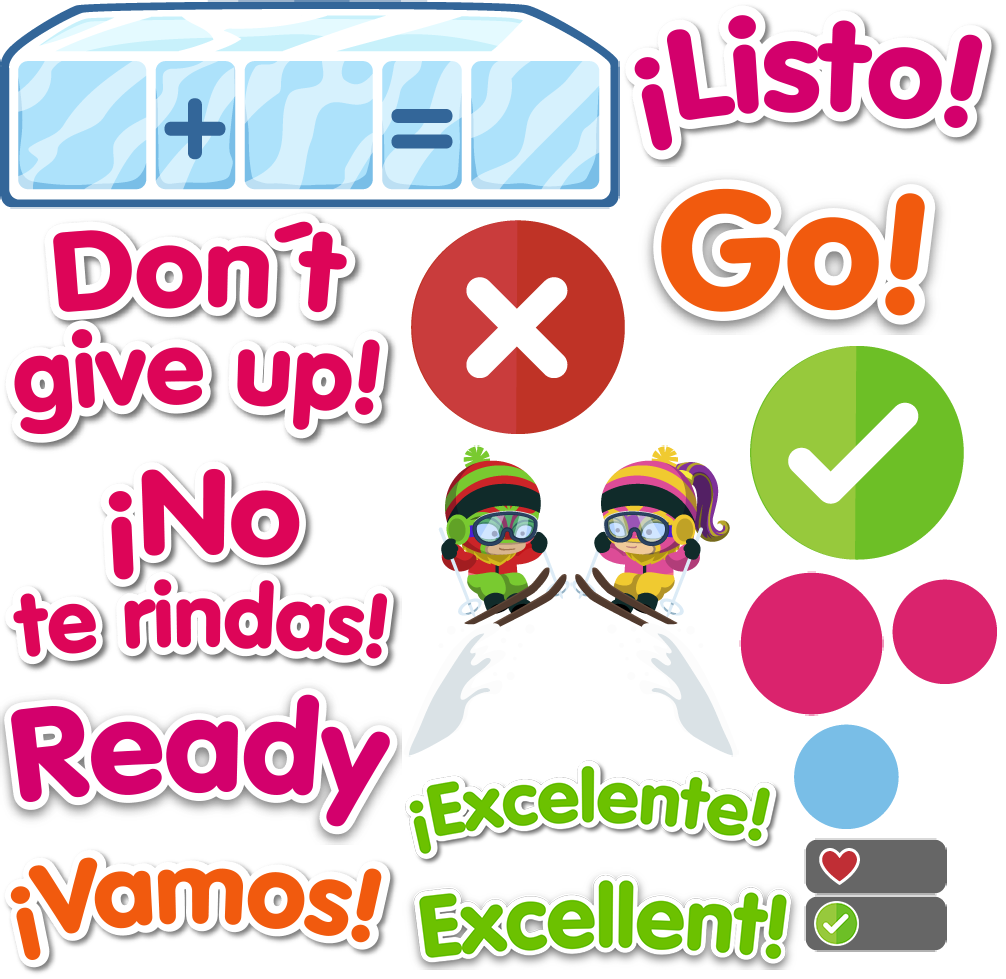
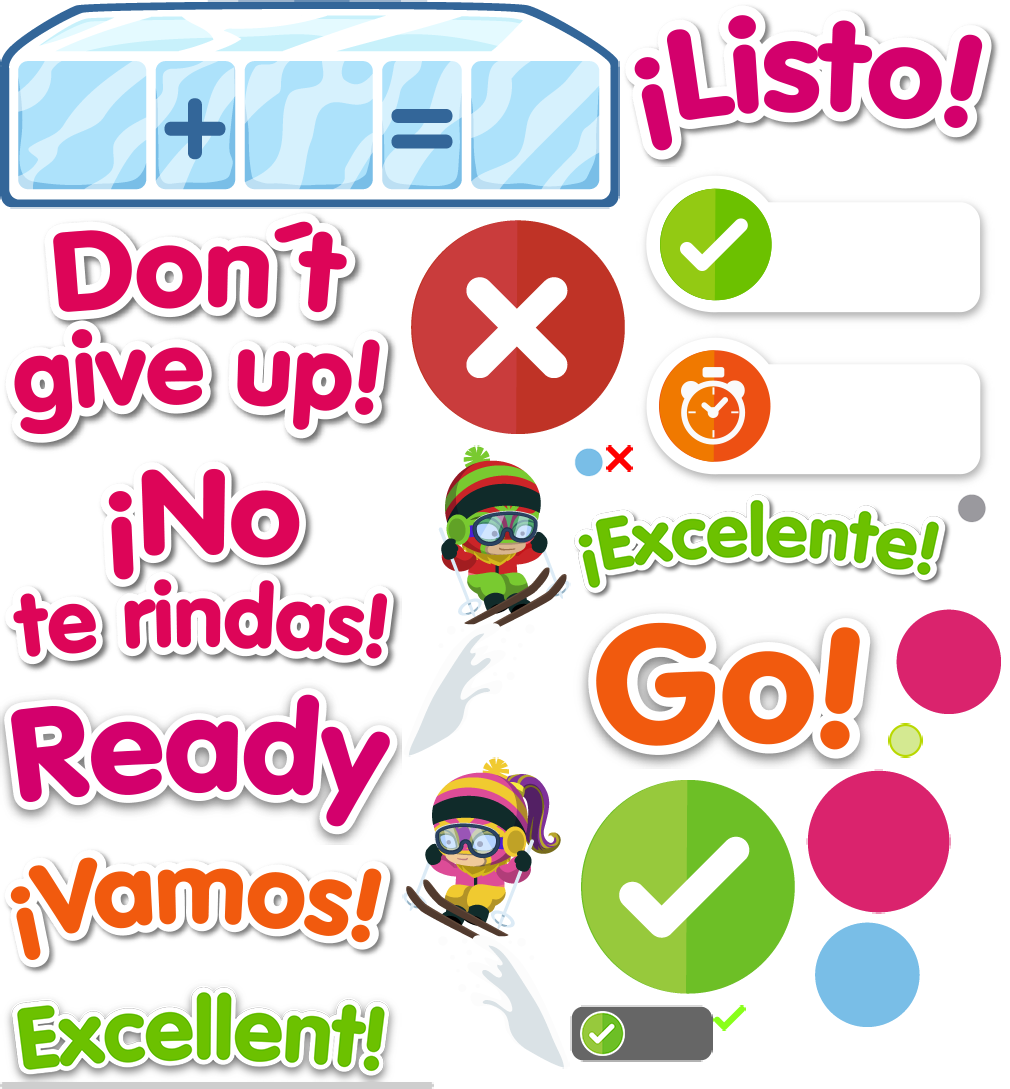
cambios mathQuiz

diff --git a/epicMath/en/minigames/mathquiz/js/scenes/mathquiz.js b/epicMath/en/minigames/mathquiz/js/scenes/mathquiz.js
@@ -49,7 +49,8 @@ var mathQuiz = function(){
 
 	var positionQuestions = null
 	var positionCache = null
-
+    
+    var pointsGroup = null
  	var sceneGroup = null
  	var bufferQuestions = null
  	var optionsGroup = null
@@ -58,6 +59,7 @@ var mathQuiz = function(){
  	var timerContainer = null
  	var questionGroup = null
  	var resultMark = null
+    var questionIndex = null
 
  	var isGameActive = null
     
@@ -75,7 +77,7 @@ var mathQuiz = function(){
 		tweenScene = game.add.tween(sceneGroup).to({alpha: 0}, 500, Phaser.Easing.Cubic.In, false, 1000)
 		tweenScene.onComplete.add(function(){
 			var resultScreen = sceneloader.getScene("resultScreen")
-			resultScreen.setScore(answersContainer.answered, GOAL_QUESTIONS, timerContainer.text.text)
+			resultScreen.setScore(answersContainer.answered, GOAL_QUESTIONS, numberOfLifes * 40)
 
 			sceneloader.show("resultScreen")
 		})
@@ -89,7 +91,87 @@ var mathQuiz = function(){
 		var childrenOption = optionsGroup.children[targetId].inputTouch
 		onReleasedAnswer(childrenOption)
 	}
-
+    
+     function setQuestionIndex(index){
+        
+        var obj = pointsGroup.children[index]
+        changeImage(1,obj)
+        
+        if(index > 0){
+            changeImage(2,pointsGroup.children[index - 1])
+        }
+        
+        var scaleTween = game.add.tween(obj.scale).to({x:1.3,y:1.3}, 200, Phaser.Easing.linear, true)
+        
+        scaleTween.onComplete.add(function(){
+            game.add.tween(obj.scale).to({x:1,y:1}, 200, Phaser.Easing.linear, true)
+                        
+        })
+        
+    }
+    
+    function changeImage(index,group){
+        for (var i = 0;i< group.length; i ++){
+            group.children[i].alpha = 0
+            if( i == index){
+                group.children[i].alpha = 1
+            }
+        }
+        group.children[3].alpha = 1
+    }
+    
+    function createPointsBar(){
+        
+        var pointsBar = sceneGroup.create(game.world.centerX, 60, 'atlas.mathQuiz','lineaGris')
+        pointsBar.anchor.setTo(0.5,0.5)
+        
+        pointsGroup = game.add.group()
+        sceneGroup.add(pointsBar)
+        
+        var pivotX = pointsBar.x - pointsBar.width * 0.45
+        for(var i = 0;i<10;i++){
+            
+            var group = game.add.group()
+            group.x = pivotX
+            group.y = pointsBar.y
+            pointsGroup.add(group)
+            
+            var circle1 = group.create(0,0,'atlas.mathQuiz','Cgris')
+            circle1.anchor.setTo(0.5,0.5)
+            
+            var circle2 = group.create(0,0,'atlas.mathQuiz','Cazul')
+            circle2.anchor.setTo(0.5,0.5)
+            
+            var circle3 = group.create(0,0,'atlas.mathQuiz','Cverde')
+            circle3.anchor.setTo(0.5,0.5)
+            
+            var fontStyle = {font: "22px VAGRounded", fontWeight: "bold", fill: "#000000", align: "center"}
+            
+            var trackerText = new Phaser.Text(sceneGroup.game, 0, 3, i + 1, fontStyle)
+            trackerText.anchor.setTo(0.5, 0.5)
+            group.add(trackerText)
+            
+            pivotX+= circle1.width * 1.315
+            
+            changeImage(0,group)
+            
+        }
+        
+    }
+    
+    function addCorrect(correct){
+        
+        var obj = pointsGroup.children[questionIndex]
+        var correct
+        if(correct){
+            correct = sceneGroup.create(obj.x, obj.y - 35,'atlas.mathQuiz','correcto')
+            
+        }else{
+            correct = sceneGroup.create(obj.x, obj.y - 35,'atlas.mathQuiz','incorrecto')
+        }
+        correct.anchor.setTo(0.5,0.5)
+    }
+    
  	function onReleasedAnswer(target){
 
  		if(isGameActive){
@@ -133,19 +215,28 @@ var mathQuiz = function(){
 	 					answersContainer.updateAnswers(1)
 	 					resultMark.show("correct")
                         sound.play("correct")
+                        addCorrect(true)
 	 				}else{
 	 					tweenParams.y = sceneGroup.game.world.height
 	 					answersContainer.updateAnswers(-1)
 	 					resultMark.show("wrong")
                         sound.play("lose")
                         numberOfLifes--
-                        timerContainer.text.setText(numberOfLifes)
+                        addCorrect(false)
+                        //timerContainer.text.setText(numberOfLifes)
                         
                         if(numberOfLifes <= 0){
                             winGame()
                         }
 	 				}
-
+                    questionIndex++
+                    
+                    if(questionIndex >= 10){
+                        winGame()
+                    }else{
+                        setQuestionIndex(questionIndex)
+                    }
+                    
 	 				currentQuestion.destroy(true)	
 	 				//var tweenB = sceneGroup.game.add.tween(currentQuestion).to(tweenParams, 200)
 	 				//tweenB.onComplete.add(function(){
@@ -575,6 +666,7 @@ var mathQuiz = function(){
 	}
 
 	function initialize(){
+        questionIndex = 0
 		bufferQuestions = []
 		positionCache = []
 
@@ -598,6 +690,8 @@ var mathQuiz = function(){
         var background = sceneGroup.create(0,0,'background')
         background.width = game.world.width
         background.height = game.world.height
+        
+        createPointsBar()
         
         var dinamita = sceneGroup.create(0,100,'atlas.mathQuiz','dinamita')
         
@@ -624,14 +718,15 @@ var mathQuiz = function(){
 		sceneGroup.add(line)
 
 		answersContainer = createAnswerCounter(10)
+        answersContainer.alpha = 0
 		answersContainer.x = game.world.width * 0.87
 		answersContainer.y = game.world.height * 0.04
 		sceneGroup.add(answersContainer)
 
-		timerContainer = createTimer()
+		/*timerContainer = createTimer()
 		timerContainer.x = 89
 		timerContainer.y = game.world.height * 0.04
-		sceneGroup.add(timerContainer)
+		sceneGroup.add(timerContainer)*/
 
 		optionsGroup = createAnswerGroup()
 		var optionsScale = (containerHeight * 0.7) / optionsGroup.height
@@ -696,7 +791,8 @@ var mathQuiz = function(){
                             
 							//timerContainer.start()
 							isGameActive = true
-                            timerContainer.text.setText(numberOfLifes)
+                            setQuestionIndex(questionIndex)
+                            //timerContainer.text.setText(numberOfLifes)
 						})
 						tweenScreen.start()
 						tweenGoScale.start()

diff --git a/epicMath/es/index.html b/epicMath/es/index.html
@@ -8,7 +8,7 @@
 <meta name="viewport" content="width=device-width, initial-scale=1">
 <meta property="og:url"				content="http://yogome.com/g/m6/" />
 <meta property="og:type"			content="article" />
-<meta property="og:description"		content="We are looking for the Usain Bolt of sums. Do you think you can make it?">
+<meta property="og:description"		content="Estamos buscando al Usain Bolt de las sumas ¿Crees que eres tú?">
 <meta property="og:title"			content="Smart Games" />
 <meta property="og:image"			content="http://yogome.com/g/images/fbpost.png" />
 <head>
@@ -44,7 +44,7 @@
 						<img style="width: 80%" src="../../epictheme/images/galeriaJuegos.png">
 					</div>
 					<div>
-						<img style="width: 60%" src="../../epictheme/images/instructions.png">
+						<img style="width: 60%" src="../../epictheme/images/mathInstructions.png">
                     </div>
                     <div>
                         <img style="width: 60%;" src="../../epictheme/images/socialBar.png">

diff --git a/epicMath/es/minigames/mathquiz/js/scenes/result.js b/epicMath/es/minigames/mathquiz/js/scenes/result.js
@@ -163,13 +163,13 @@ var resultScreen = function(){
         var pivotX = 0
         var pivotY = game.world.height * 0.47
         
-        for(var i = 1; i < 7; i ++){
+        for(var i = 1; i < 12; i ++){
             var pattern = sceneGroup.create(pivotX, pivotY,'atlas.resultScreen','retro-pattern') 
             pattern.anchor.setTo(0,1)
             
             pivotX+= pattern.width * 0.99
             
-            if(i % 3 == 0){
+            if(i % 4 == 0){
                 pivotX = 0
                 pivotY-=pattern.height * 0.99
             }

diff --git a/epicMath/en/index.html b/epicMath/en/index.html
@@ -44,7 +44,7 @@
 						<img style="width: 80%" src="../../epictheme/images/galeriaJuegos.png">
 					</div>
 					<div>
-						<img style="width: 60%" src="../../epictheme/images/instructions_EN.png">
+						<img style="width: 60%" src="../../epictheme/images/mathInstructions_EN.png">
                     </div>
                     <div>
                         <img style="width: 60%;" src="../../epictheme/images/socialBar_EN.png">
